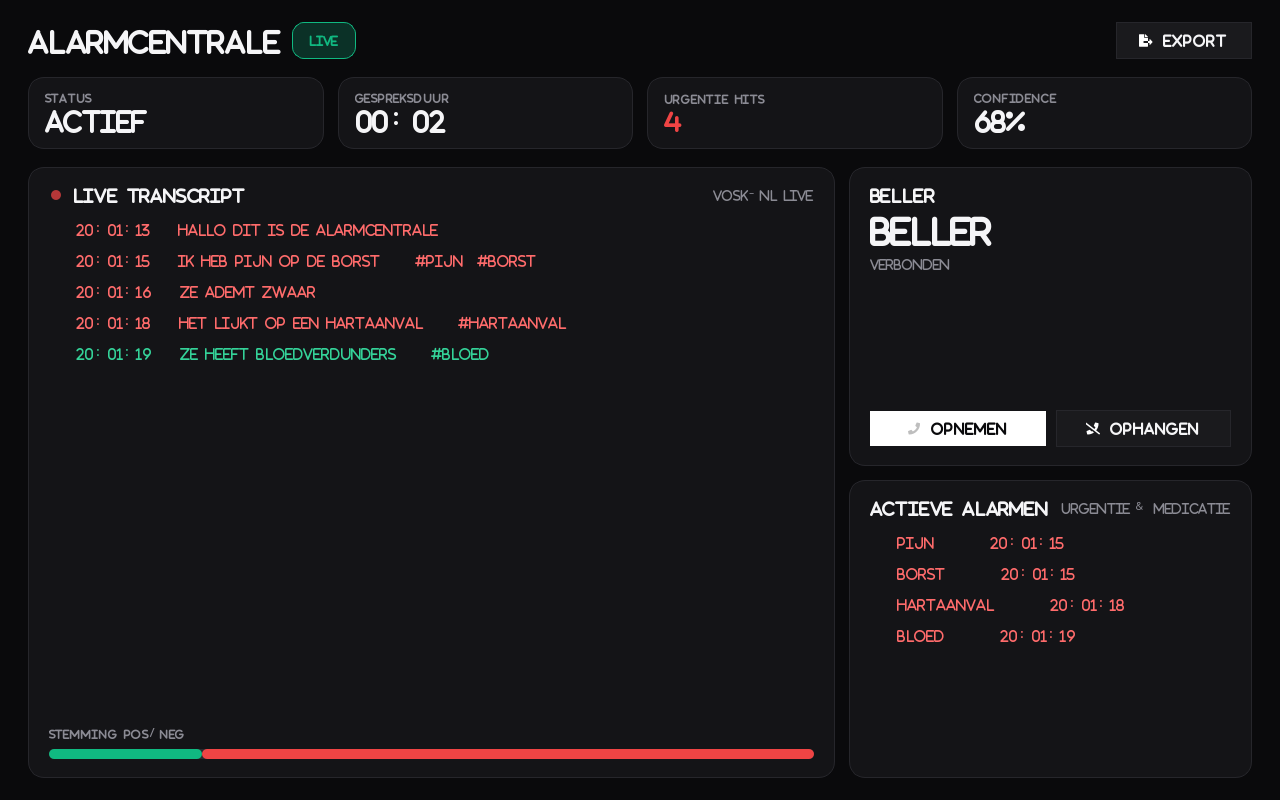
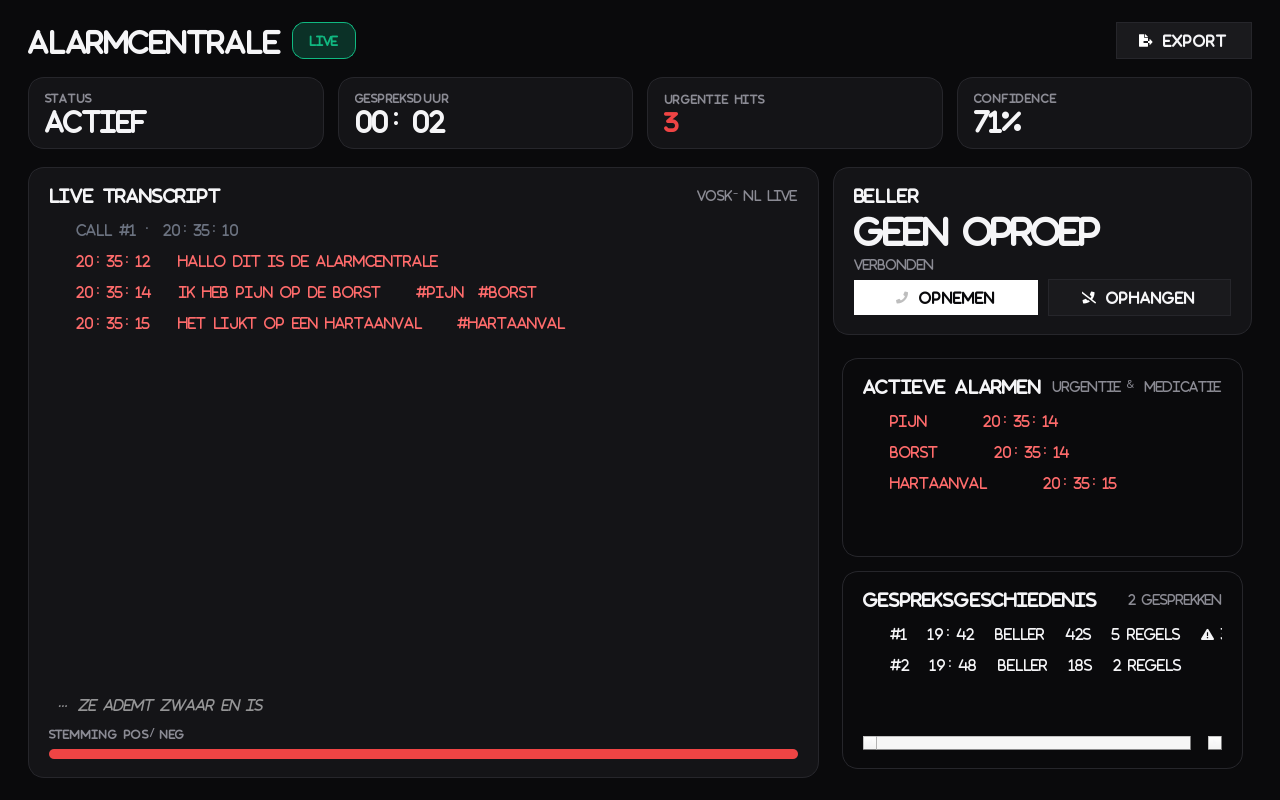
feat(ui): word-by-word partial transcript + call-separator per call + gespreksgeschiedenis card + remove pulse-dot

diff --git a/app/ui.py b/app/ui.py
@@ -45,7 +45,7 @@ from app.backend import start_api_server
 from app.icons import icon_size, qicon
 from app.models import EdgeModel, find_keywords, score_text
 from app.signals import AudioBridge
-from app.widgets import NEG, POS, PulseDot, SentimentBar, STYLE, StatCard
+from app.widgets import NEG, POS, SentimentBar, STYLE, StatCard
 
 ROOT = Path(__file__).resolve().parent.parent
 LITE_MODEL_PATH = ROOT / "models" / "sentiment_lite.json"
@@ -63,7 +63,9 @@ class OperatorDashboard(QWidget):
         self.api_url = api_url.rstrip("/")
         self.audio = AudioBridge(VOSK_DIR)
         self.audio.transcript.connect(self._on_local_transcript)
+        self.audio.partial.connect(self._on_local_partial)
         self._audio_started = False
+        self._current_call_id = 0
         self.phase = "idle"
         self.caller_name = ""
         self.timer_seconds = 0
@@ -74,7 +76,9 @@ class OperatorDashboard(QWidget):
         self._last_event_count = 0
         self._build_ui()
         QTimer(self, timeout=self._tick, interval=1000).start()  # type: ignore[call-arg]
-        QTimer(self, timeout=self._poll_state, interval=500).start()  # type: ignore[call-arg]
+        QTimer(self, timeout=self._poll_state, interval=400).start()  # type: ignore[call-arg]
+        QTimer(self, timeout=self._poll_history, interval=2000).start()  # type: ignore[call-arg]
+        self._poll_history()
 
     def _build_ui(self) -> None:
         root = QVBoxLayout(self)
@@ -112,7 +116,7 @@ class OperatorDashboard(QWidget):
         grid = QGridLayout()
         grid.setSpacing(14)
 
-        # Transcript card
+        # Transcript card (zonder pulse-dot)
         tc = QFrame()
         tc.setObjectName("card")
         tl = QVBoxLayout(tc)
@@ -120,8 +124,6 @@ class OperatorDashboard(QWidget):
         tl.setSpacing(10)
         th = QHBoxLayout()
         th.setSpacing(10)
-        self.pulse = PulseDot()
-        th.addWidget(self.pulse)
         tt = QLabel("Live transcript")
         tt.setObjectName("card_title")
         th.addWidget(tt)
@@ -133,6 +135,14 @@ class OperatorDashboard(QWidget):
         self.transcript_list = QListWidget()
         self.transcript_list.setFrameShape(QFrame.Shape.NoFrame)
         tl.addWidget(self.transcript_list, 1)
+        # Partial-regel: woord-voor-woord, dim grijs
+        self.partial_label = QLabel("")
+        self.partial_label.setStyleSheet(
+            "color: rgba(255,255,255,0.55); font-size: 13px; "
+            "font-style: italic; padding: 6px 4px;"
+        )
+        self.partial_label.setWordWrap(True)
+        tl.addWidget(self.partial_label)
         sb_label = QLabel("Stemming pos/neg")
         sb_label.setObjectName("stat_label")
         tl.addWidget(sb_label)
@@ -175,7 +185,10 @@ class OperatorDashboard(QWidget):
         cl.addLayout(actions)
         grid.addWidget(cc, 0, 1)
 
-        # Alarm card
+        # Alarm + history stack
+        right_split = QVBoxLayout()
+        right_split.setSpacing(14)
+
         ac = QFrame()
         ac.setObjectName("card")
         al = QVBoxLayout(ac)
@@ -193,7 +206,32 @@ class OperatorDashboard(QWidget):
         self.alarm_list = QListWidget()
         self.alarm_list.setFrameShape(QFrame.Shape.NoFrame)
         al.addWidget(self.alarm_list, 1)
-        grid.addWidget(ac, 1, 1)
+        right_split.addWidget(ac, 1)
+
+        # History card
+        hc = QFrame()
+        hc.setObjectName("card")
+        hl = QVBoxLayout(hc)
+        hl.setContentsMargins(20, 18, 20, 18)
+        hl.setSpacing(10)
+        hh = QHBoxLayout()
+        htitle = QLabel("Gespreksgeschiedenis")
+        htitle.setObjectName("card_title")
+        hh.addWidget(htitle)
+        hh.addStretch(1)
+        self.history_meta = QLabel("0 gesprekken")
+        self.history_meta.setObjectName("card_sub")
+        hh.addWidget(self.history_meta)
+        hl.addLayout(hh)
+        self.history_list = QListWidget()
+        self.history_list.setFrameShape(QFrame.Shape.NoFrame)
+        hl.addWidget(self.history_list, 1)
+        right_split.addWidget(hc, 1)
+
+        right_widget = QFrame()
+        right_widget.setLayout(right_split)
+        right_widget.setStyleSheet("QFrame { background: transparent; }")
+        grid.addWidget(right_widget, 1, 1)
 
         grid.setColumnStretch(0, 2)
         grid.setColumnStretch(1, 1)
@@ -209,7 +247,9 @@ class OperatorDashboard(QWidget):
         except requests.RequestException:
             return
         new_phase = st.get("phase", "idle")
-        if new_phase != self.phase:
+        new_call_id = st.get("call_id", 0)
+        if new_phase != self.phase or new_call_id != self._current_call_id:
+            self._current_call_id = new_call_id
             self._phase_change(new_phase, st.get("caller", ""))
         events = st.get("events", [])
         if len(events) > self._last_event_count and self.phase == "active":
@@ -217,6 +257,35 @@ class OperatorDashboard(QWidget):
                 self._render_transcript_line(ev.get("text", ""))
             self._last_event_count = len(events)
             self._refresh_stats()
+        # Partial-line update
+        partial = st.get("partial", "") if self.phase == "active" else ""
+        self.partial_label.setText(("… " + partial) if partial else "")
+
+    def _poll_history(self) -> None:
+        try:
+            r = requests.get(f"{self.api_url}/call/history", timeout=0.8)
+            if not r.ok:
+                return
+            data = r.json()
+        except requests.RequestException:
+            return
+        calls = data.get("calls", [])
+        self.history_meta.setText(f"{len(calls)} gesprekken")
+        # Re-render volledige lijst
+        self.history_list.clear()
+        for c in calls:
+            started = datetime.fromtimestamp(c.get("started_at", 0)).strftime("%H:%M") if c.get("started_at") else "--:--"
+            n_events = len(c.get("events", []))
+            urgentie = sum(1 for ev in c.get("events", [])
+                           for kw in find_keywords(ev.get("text", ""))
+                           if kw["type"] == "urgentie")
+            line = f"  #{c.get('call_id'):>2}   {started}   {c.get('caller','')}   {c.get('duration_s',0):.0f}s   {n_events} regels"
+            if urgentie:
+                line += f"   ⚠ {urgentie}"
+            item = QListWidgetItem(line)
+            if urgentie:
+                item.setForeground(QColor("#ff9999"))
+            self.history_list.addItem(item)
 
     def _phase_change(self, new_phase: str, caller: str) -> None:
         self.phase = new_phase
@@ -238,12 +307,24 @@ class OperatorDashboard(QWidget):
             self.phase_pill.setObjectName("pill_active")
             self.stat_state.set_value("Actief")
             self.timer_seconds = 0
-            self.transcript_list.clear()
             self.alarm_list.clear()
             self.urgentie_count = 0
             self.pos_count = 0
             self.neg_count = 0
             self._last_event_count = 0
+            # Call-separator i.p.v. transcript clearen: oude calls blijven zichtbaar
+            if self.transcript_list.count() > 0:
+                sep = QListWidgetItem(
+                    f"  ─────  CALL #{self._current_call_id} · {datetime.now().strftime('%H:%M:%S')}  ─────"
+                )
+                sep.setForeground(QColor("#6b7280"))
+                self.transcript_list.addItem(sep)
+            else:
+                hdr = QListWidgetItem(
+                    f"  CALL #{self._current_call_id} · {datetime.now().strftime('%H:%M:%S')}"
+                )
+                hdr.setForeground(QColor("#6b7280"))
+                self.transcript_list.addItem(hdr)
             self._start_audio_if_needed()
         else:  # idle
             self.caller_name = ""
@@ -348,6 +429,15 @@ class OperatorDashboard(QWidget):
         try:
             requests.post(f"{self.api_url}/call/transcript",
                           json={"text": text}, timeout=1)
+        except requests.RequestException:
+            pass
+
+    def _on_local_partial(self, text: str) -> None:
+        if self.phase != "active":
+            return
+        try:
+            requests.post(f"{self.api_url}/call/partial",
+                          json={"text": text}, timeout=0.5)
         except requests.RequestException:
             pass
 

diff --git a/app/backend.py b/app/backend.py
@@ -109,7 +109,9 @@ def start_api_server(heavy_model_path: Path, api_url: str) -> None:
     api.add_middleware(CORSMiddleware, allow_origins=["*"], allow_methods=["GET", "POST"], allow_headers=["*"])
 
     # Phase: "idle" -> "ringing" -> "active" -> "idle"
-    _call_state = {"phase": "idle", "caller": "", "started_at": 0.0, "events": []}
+    _call_state = {"phase": "idle", "caller": "", "started_at": 0.0,
+                   "events": [], "partial": "", "call_id": 0}
+    _call_history: list[dict] = []
 
     @api.get("/health")
     def health():  # noqa: ANN201
@@ -119,19 +121,33 @@ def start_api_server(heavy_model_path: Path, api_url: str) -> None:
     def call_start(payload: dict = None):  # noqa: ANN201, B006
         name = (payload or {}).get("caller", "Onbekend")
         _call_state.update({"phase": "ringing", "caller": name,
-                            "started_at": 0.0, "events": []})
-        return {"ok": True, "phase": "ringing"}
+                            "started_at": 0.0, "events": [], "partial": "",
+                            "call_id": _call_state.get("call_id", 0) + 1})
+        return {"ok": True, "phase": "ringing", "call_id": _call_state["call_id"]}
 
     @api.post("/call/accept")
     def call_accept():  # noqa: ANN201
         if _call_state["phase"] != "ringing":
             return {"ok": False, "reason": "not ringing"}
-        _call_state.update({"phase": "active", "started_at": time.time()})
+        _call_state.update({"phase": "active", "started_at": time.time(), "partial": ""})
         return {"ok": True, "phase": "active"}
 
     @api.post("/call/end")
     def call_end():  # noqa: ANN201
-        _call_state.update({"phase": "idle", "caller": "", "started_at": 0.0})
+        # Archiveer in history voordat we reset.
+        if _call_state["phase"] in ("ringing", "active") and _call_state.get("events"):
+            duration = round(time.time() - _call_state["started_at"], 1) if _call_state["started_at"] else 0
+            _call_history.append({
+                "call_id": _call_state["call_id"],
+                "caller": _call_state["caller"],
+                "started_at": _call_state["started_at"],
+                "ended_at": time.time(),
+                "duration_s": duration,
+                "events": list(_call_state["events"]),
+            })
+            del _call_history[:-50]  # cap at 50 calls
+        _call_state.update({"phase": "idle", "caller": "", "started_at": 0.0,
+                            "events": [], "partial": ""})
         return {"ok": True}
 
     @api.post("/call/transcript")
@@ -143,14 +159,25 @@ def start_api_server(heavy_model_path: Path, api_url: str) -> None:
             return {"ok": False}
         _call_state["events"].append({"ts": time.time(), "text": text})
         _call_state["events"] = _call_state["events"][-200:]
+        _call_state["partial"] = ""
+        return {"ok": True}
+
+    @api.post("/call/partial")
+    def call_partial(payload: dict):  # noqa: ANN201
+        if _call_state["phase"] != "active":
+            return {"ok": False}
+        _call_state["partial"] = (payload or {}).get("text", "").strip()
         return {"ok": True}
 
     @api.get("/call/state")
     def call_state():  # noqa: ANN201
-        # backwards-compat: ook 'active' bool exposeren
         out = dict(_call_state)
         out["active"] = _call_state["phase"] == "active"
         return out
+
+    @api.get("/call/history")
+    def call_history():  # noqa: ANN201
+        return {"calls": list(reversed(_call_history))[:20]}
 
     @api.post("/analyze")
     def analyze(req: AnalyzeReq):  # noqa: ANN201

diff --git a/app/signals.py b/app/signals.py
@@ -61,9 +61,10 @@ class FileBus(QObject):
 
 
 class AudioBridge(QObject):
-    """Mic → speakers loopback + optionele vosk STT."""
+    """Mic loopback + optionele vosk STT met partial-results (woord-voor-woord)."""
 
-    transcript = Signal(str)
+    transcript = Signal(str)         # final, complete utterance
+    partial = Signal(str)            # interim, still-being-spoken
 
     def __init__(self, vosk_model_dir: Path) -> None:
         super().__init__()
@@ -100,17 +101,25 @@ class AudioBridge(QObject):
 
         def _run() -> None:
             try:
+                import json as _json
                 import sounddevice as sd  # type: ignore[import-not-found]
                 model = Model(str(self._vosk_dir))
                 rec = KaldiRecognizer(model, 16000)
-                with sd.RawInputStream(samplerate=16000, blocksize=4000, dtype="int16", channels=1) as inp:
+                # Kleinere blocksize = sneller partial-update (~150ms i.p.v. 250ms).
+                with sd.RawInputStream(samplerate=16000, blocksize=2400, dtype="int16", channels=1) as inp:
+                    last_partial = ""
                     while not self._stop.is_set():
-                        data, _ = inp.read(4000)
+                        data, _ = inp.read(2400)
                         if rec.AcceptWaveform(bytes(data)):
-                            import json as _json
                             text = _json.loads(rec.Result()).get("text", "").strip()
+                            last_partial = ""
                             if text:
                                 self.transcript.emit(text)
+                        else:
+                            partial = _json.loads(rec.PartialResult()).get("partial", "").strip()
+                            if partial and partial != last_partial:
+                                last_partial = partial
+                                self.partial.emit(partial)
             except Exception:
                 return
 